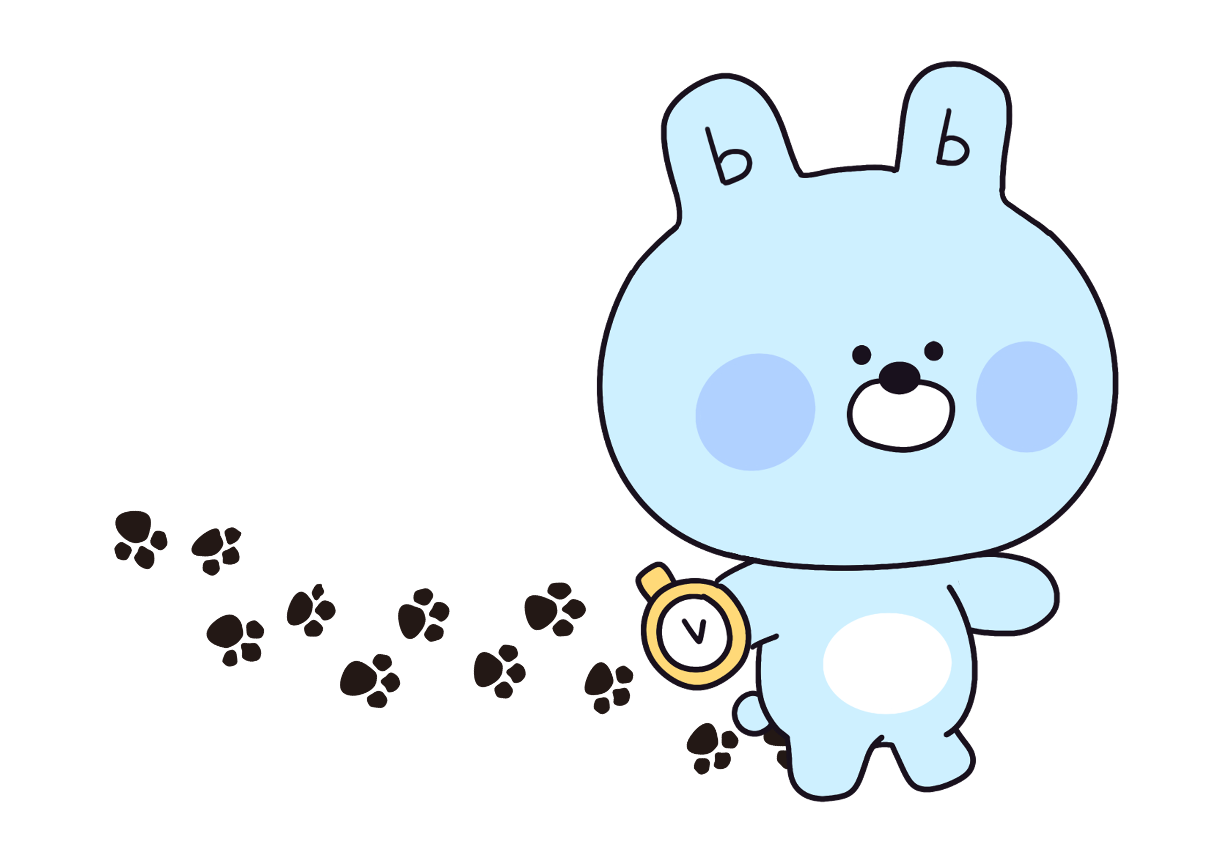
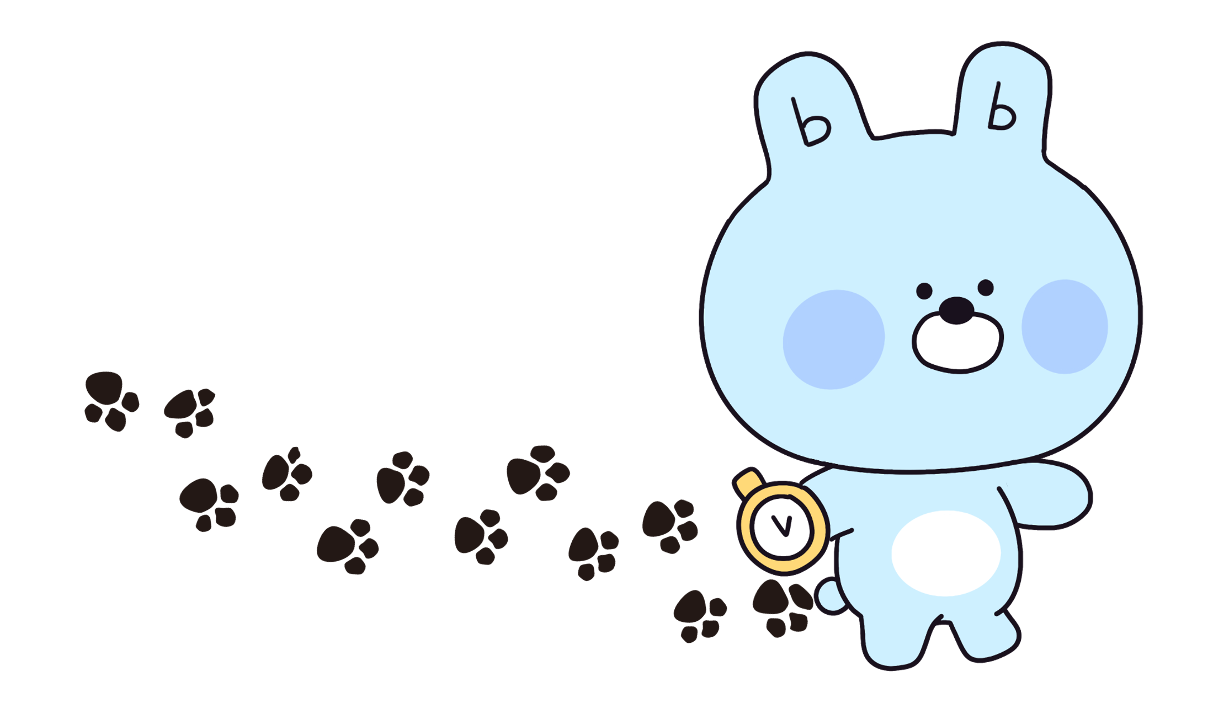
feat: [#-] 메인이미지 및 여백 수정

Changed region(s): [[0.0621, 0.0615, 0.9314, 0.9525]]

diff --git a/flutter_pagebuild/lib/view/MainView.dart b/flutter_pagebuild/lib/view/MainView.dart
@@ -44,9 +44,11 @@ class MyHomePage extends StatelessWidget {
     double screenHeight = MediaQuery.of(context).size.height;
     double screenWidth = MediaQuery.of(context).size.width;
     double blankHeight = screenHeight * 0.02;
-    double blankWidth = screenWidth * 0.05;
-    double startHeight = screenHeight * 0.1;
+    double blankWidth = screenWidth * 0.08;
+    double startHeight = screenHeight * 0.08;
     double contentWidth = screenWidth * 0.8;
+    double imageHeight = screenHeight * 0.25;
+
 
     return Scaffold(
       body: SingleChildScrollView(
@@ -60,35 +62,69 @@ class MyHomePage extends StatelessWidget {
               ),
               Container(
                 decoration: BoxDecoration(
-                  border: Border.all(),
+                  // border: Border.all(
+                  //   color: Color.fromARGB(255, 223, 223, 223),
+                  // ),
+                  borderRadius: BorderRadius.circular(5),
+                  color: Color.fromARGB(255, 27, 69, 245),
                 ),
-                child: Text('커피 사먹지 않기 도전 중'),
+                child: Text(
+                  '커피 사먹지 않기 도전 중 ⏳',
+                  style: TextStyle(
+                    fontSize: 18,
+                    color: Colors.white,
+                  ),),
+                padding: EdgeInsets.symmetric(horizontal: 10,vertical: 2),
               ),
 
               // const HeaderWidget(),
-              UserWidget(),
+              Stack(
+                children: [
+                  Image.asset(
+                    'assets/images/main-image.png',
+                    height: imageHeight,
 
-              // 마이페이지 버튼
-              TextButton(
-                onPressed: () {
-                  controller.goToDetail();
-                },
-                style: TextButton.styleFrom(
-                  foregroundColor: Colors.black,
-                  textStyle: const TextStyle(
-                    fontSize: 18,
-                    decoration: TextDecoration.underline,
                   ),
-                ),
-                child: const Text('마이페이지'),
-              ),
+                  Positioned(
+                    top: startHeight*0.25,
+                    left: 0,
+                    right: screenWidth*0.4,
+                    child: Column(
+                      children: [
+                        UserWidget(),
+                        // 마이페이지 버튼
+                        TextButton(
+                          onPressed: () {
+                            controller.goToDetail();
+                          },
+                          style: TextButton.styleFrom(
+                            foregroundColor: Colors.black,
+                            textStyle: const TextStyle(
+                              fontSize: 18,
+                              decoration: TextDecoration.underline,
+                            ),
+                          ),
+                          child: const Text('마이페이지'),
+                        ),
 
+                        
+                      ],
+                    ),
+                  ),
+                ],
+              ),
+              
+              
               // 랭킹 및 현황 버튼들
               Container(
                 child: Row(
                   mainAxisAlignment: MainAxisAlignment.center,
                   children: [
                     ElevatedButton(
+                      style: ButtonStyle(
+                        backgroundColor: MaterialStateProperty.all<Color?>(
+                            const Color.fromARGB(255, 230, 239, 255)),
+                      ),
                       onPressed: () {
                         //controller.reset.temptest();
                         controller.goToRank();
@@ -97,6 +133,7 @@ class MyHomePage extends StatelessWidget {
                         '랭킹보기',
                         style: TextStyle(
                           color: Colors.black,
+                          fontSize: 18,
                         ),
                       ),
                     ),
@@ -109,12 +146,13 @@ class MyHomePage extends StatelessWidget {
                       },
                       style: ButtonStyle(
                         backgroundColor: MaterialStateProperty.all<Color?>(
-                            const Color.fromARGB(255, 153, 255, 180)),
+                            const Color.fromARGB(255, 223, 241, 233)),
                       ),
                       child: const Text(
                         '스탬프 보기',
                         style: TextStyle(
                           color: Colors.black,
+                          fontSize: 18,
                         ),
                       ),
                     ),
@@ -216,9 +254,7 @@ class MyHomePage extends StatelessWidget {
               }), //스택종료
 
               // 현재 진행중인 챌린지 및 이미지
-              Image.asset(
-                'assets/images/main-image.png',
-              ),
+              
             ],
           ),
         ),
@@ -251,39 +287,46 @@ class UserWidget extends StatelessWidget {
     return Column(
       mainAxisSize: MainAxisSize.min,
       children: [
-        Row(
-          mainAxisAlignment: MainAxisAlignment.center,
-          crossAxisAlignment: CrossAxisAlignment.end,
+        Column(
           children: [
-            FutureBuilder<String>(
-                future: _usernameFuture,
-                builder:
-                    (BuildContext context, AsyncSnapshot<String> snapshot) {
-                  // 연결 중 상태 처리
-                  if (snapshot.connectionState == ConnectionState.waiting) {
-                    return const CircularProgressIndicator();
-                  }
+            
+            Row(
+              mainAxisAlignment: MainAxisAlignment.center,
+              crossAxisAlignment: CrossAxisAlignment.end,
+              children: [
+                FutureBuilder<String>(
+                    future: _usernameFuture,
+                    builder:
+                        (BuildContext context, AsyncSnapshot<String> snapshot) {
+                      // 연결 중 상태 처리
+                      if (snapshot.connectionState == ConnectionState.waiting) {
+                        return const CircularProgressIndicator();
+                      }
 
-                  // 오류 상태 처리
-                  if (snapshot.hasError) {
-                    return Text('Error: ${snapshot.error}');
-                  }
+                      // 오류 상태 처리
+                      if (snapshot.hasError) {
+                        return Text('Error: ${snapshot.error}');
+                      }
 
-                  // 데이터가 있는 경우의 처리
-                  return Consumer<resetMainModel>(
-                    builder: (context, counter, child) {
-                      return Text(
-                        '${snapshot.data}',
-                        style: const TextStyle(
-                            fontSize: 28, fontWeight: FontWeight.bold),
+                      // 데이터가 있는 경우의 처리
+                      return Consumer<resetMainModel>(
+                        builder: (context, counter, child) {
+                          return Text(
+                            '\n${snapshot.data}',
+                            style: const TextStyle(
+                                fontSize: 30, fontWeight: FontWeight.bold),
+                          );
+                        },
                       );
-                    },
-                  );
-                }),
-            const Text(
-              '님',
-              style: TextStyle(fontSize: 20, fontWeight: FontWeight.bold),
+                    }),
+                const Text(
+                  ' 님',
+                  style: TextStyle(fontSize: 20, fontWeight: FontWeight.bold),
+                ),
+                
+              ],
             ),
+            
           ],
         ),
       ],

diff --git a/flutter_pagebuild/lib/view/RankView.dart b/flutter_pagebuild/lib/view/RankView.dart
@@ -15,6 +15,9 @@ class RankView extends StatelessWidget {
   @override
   Widget build(BuildContext context) {
     // final controller = Get.find<RankController>();
+    double screenHeight = MediaQuery.of(context).size.height;
+    double appbarHeight = screenHeight * 0.12;
+
     return Scaffold(
       backgroundColor: Color.fromARGB(255, 228, 247, 247),
 
@@ -22,7 +25,9 @@ class RankView extends StatelessWidget {
         title: const HeaderWidget(),
         centerTitle: true,
         backgroundColor: Colors.white,
-        toolbarHeight: 130,
+        toolbarHeight: appbarHeight,
+        leadingWidth: 10,
+
       ),
 
       body: SingleChildScrollView(

diff --git a/flutter_pagebuild/lib/controller/MainController.dart b/flutter_pagebuild/lib/controller/MainController.dart
@@ -154,7 +154,7 @@ class MainController extends GetxController {
 
   void goToDetail() {
     Get.find<DetailController>();
-    // Get.to(() => DetailView());
+    Get.to(() => DetailView());
   }
 
   void goToStamp() {
